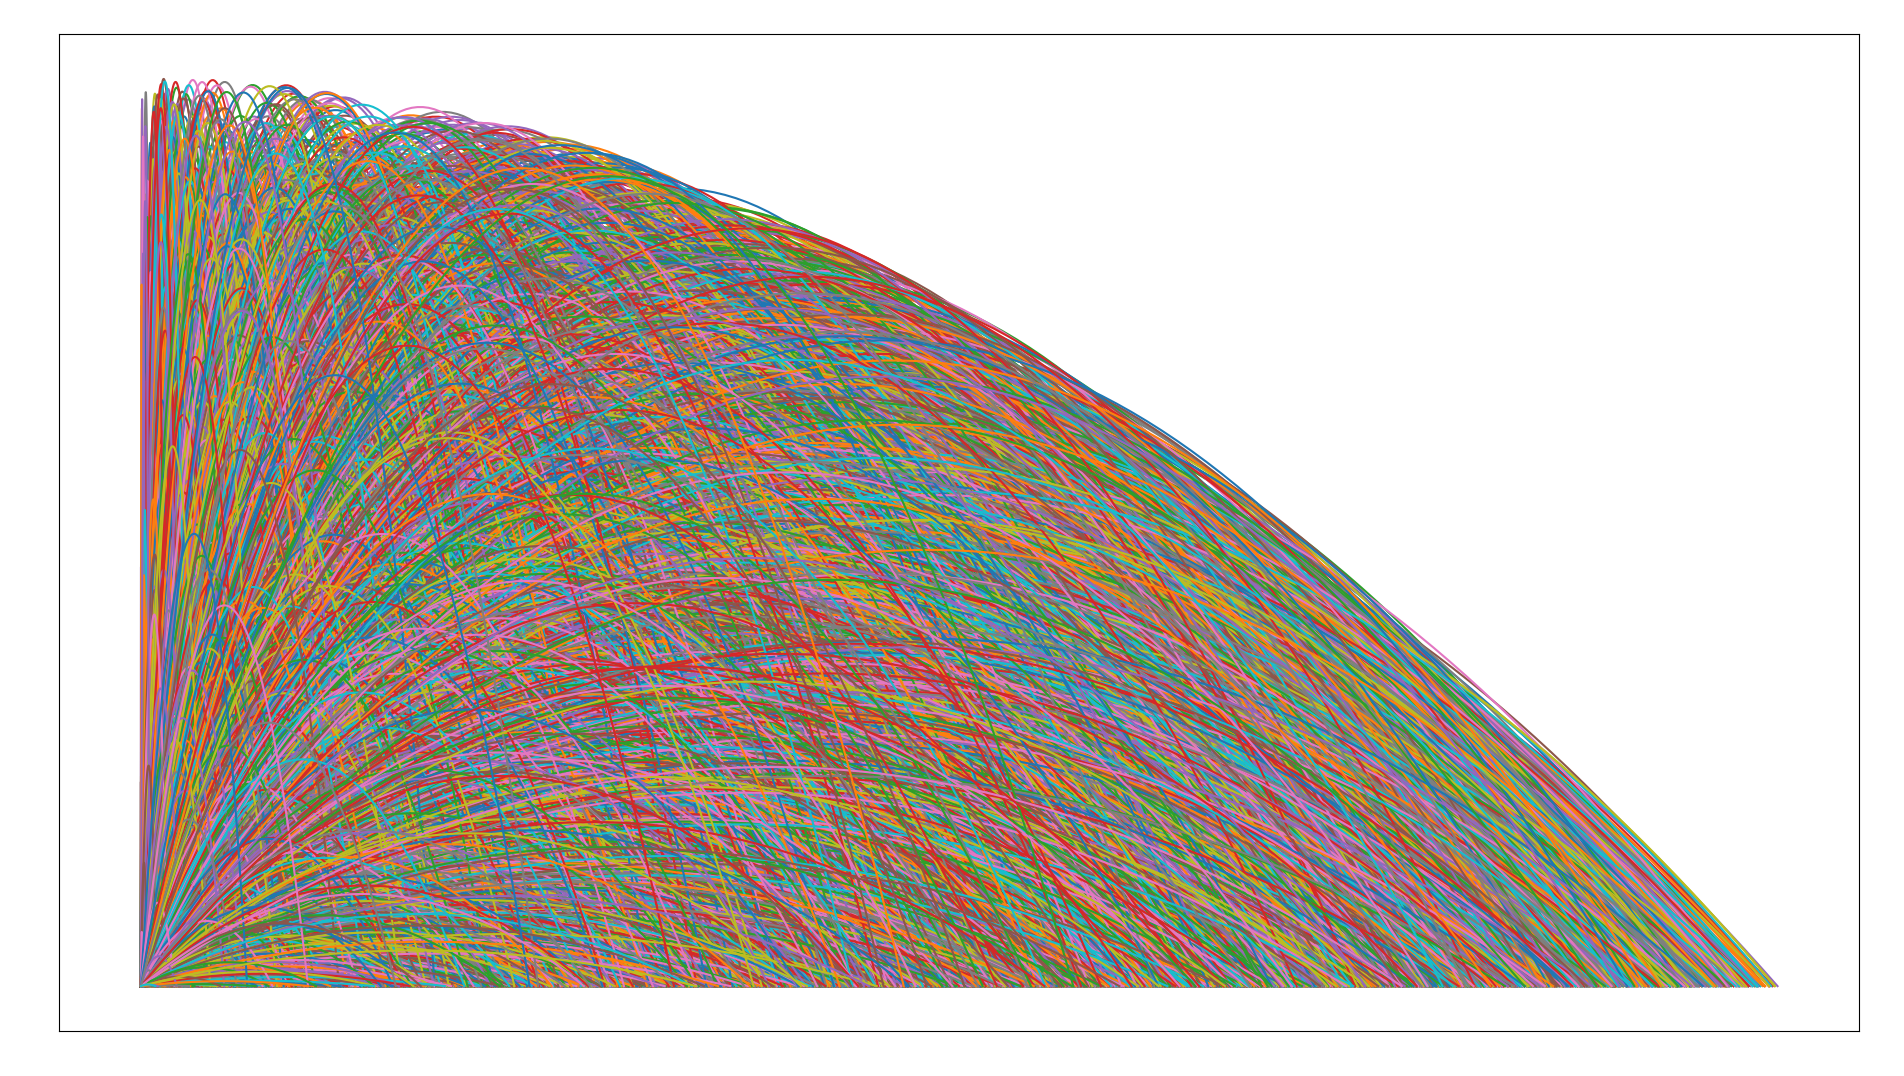
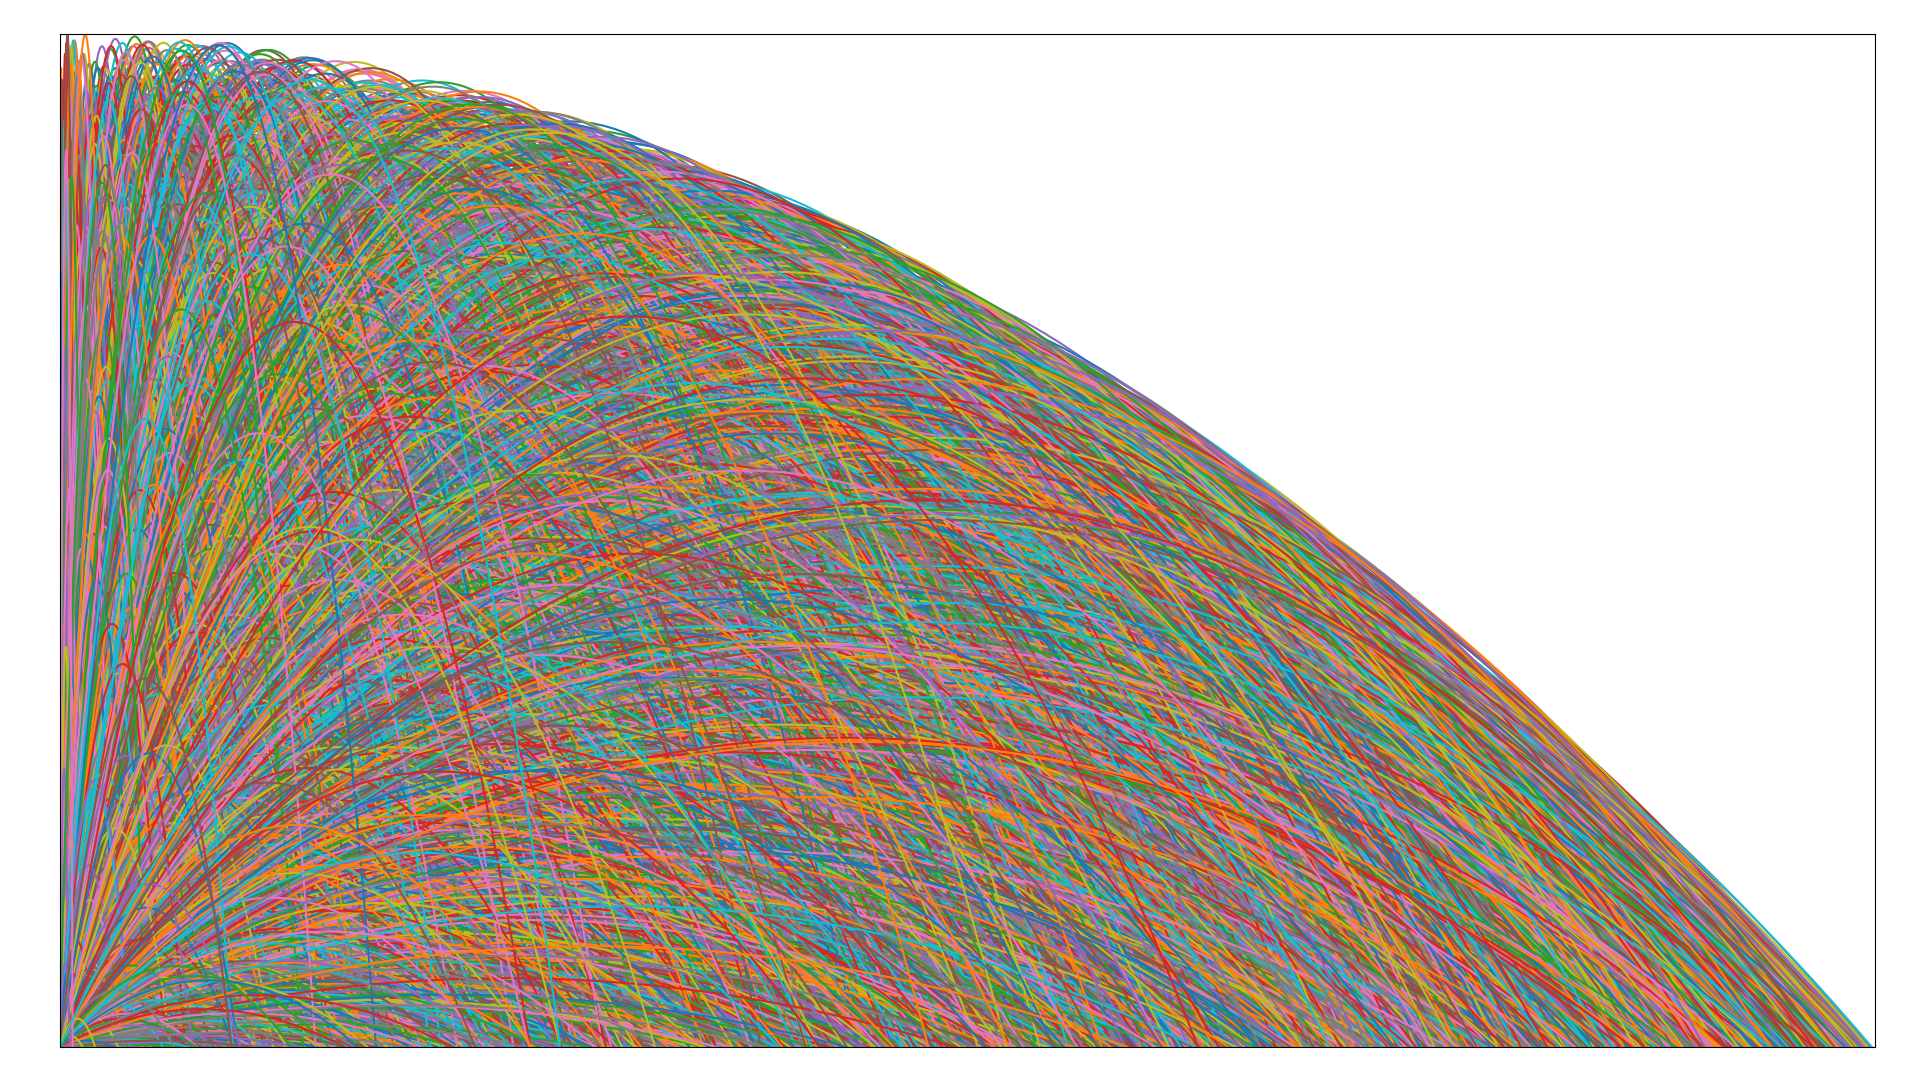
update for clarity (why are there blank spaces in the painting, lol

diff --git a/_posts/2019-03-31-hai-the-gioi.md b/_posts/2019-03-31-hai-the-gioi.md
@@ -234,6 +234,9 @@ import random as rd
 g = 10.0
 v_max = 10.0 * np.sqrt(2)
 
+L_max = v_max**2 / g
+H_max = v_max**2 / (2 * g)
+
 num_throws = 50000
 
 def f(x, v, alpha): 
@@ -247,6 +250,8 @@ for _ in range(num_throws):
     Y = f(X, v_0, alpha)
     plt.plot(X, Y)
 
+plt.xlim(0, L_max)
+plt.ylim(0, H_max)
 plt.xticks([])
 plt.yticks([])
 plt.tight_layout()
